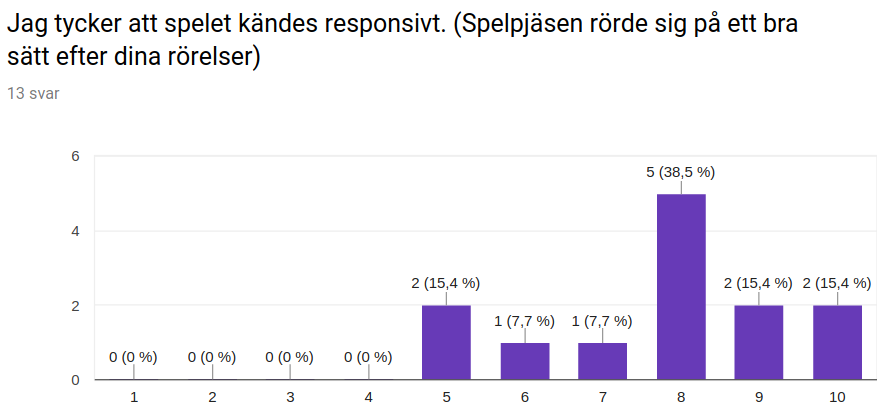
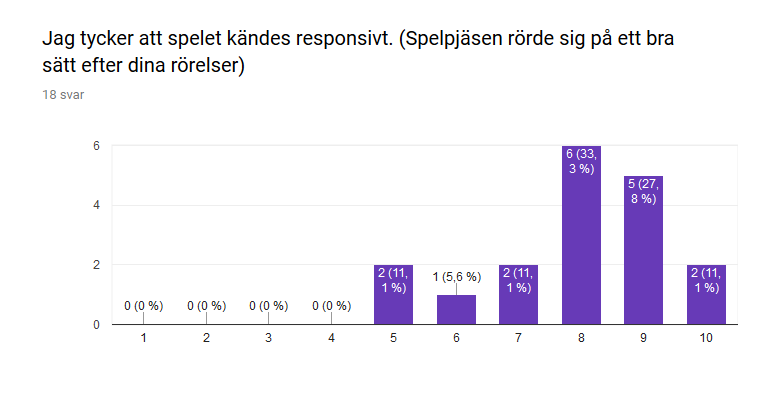
Updated poll results

diff --git a/kandidatrapport/results-demo.tex b/kandidatrapport/results-demo.tex
@@ -42,9 +42,9 @@ Nedan presenteras resultatet av enkätundersökningen som beskrivs under \ref{se
     \begin{tabular}{| l | l | l | l | l | l |}
         \cline{2-6}
         \multicolumn{1}{c|}{} & (a) & (b) & (c) & (d) & (e) \\ \hline
-        Medelvärde & 4.2 & 7.8 & 7.6 & 7.2 & 6.5  \\ \hline
-        Median & 3 & 8 & 8 & 7 & 7  \\ \hline
-        Standardavvikelse & 3.4 & 1.6 & 2.4 & 2.3 & 2.8  \\ \hline
+        Medelvärde & 3.5 & 7.9 & 7.9 & 7.9 & 7.1  \\ \hline
+        Median & 2 & 8 & 8 & 8.5 & 7  \\ \hline
+        Standardavvikelse & 3.1 & 1.5 & 2.2 & 2.2 & 2.6  \\ \hline
     \end{tabular}
     \caption{Medelvärden, median och standardavvikelse för resultaten av enkäten}
     \label{tab:poll_results_table}
